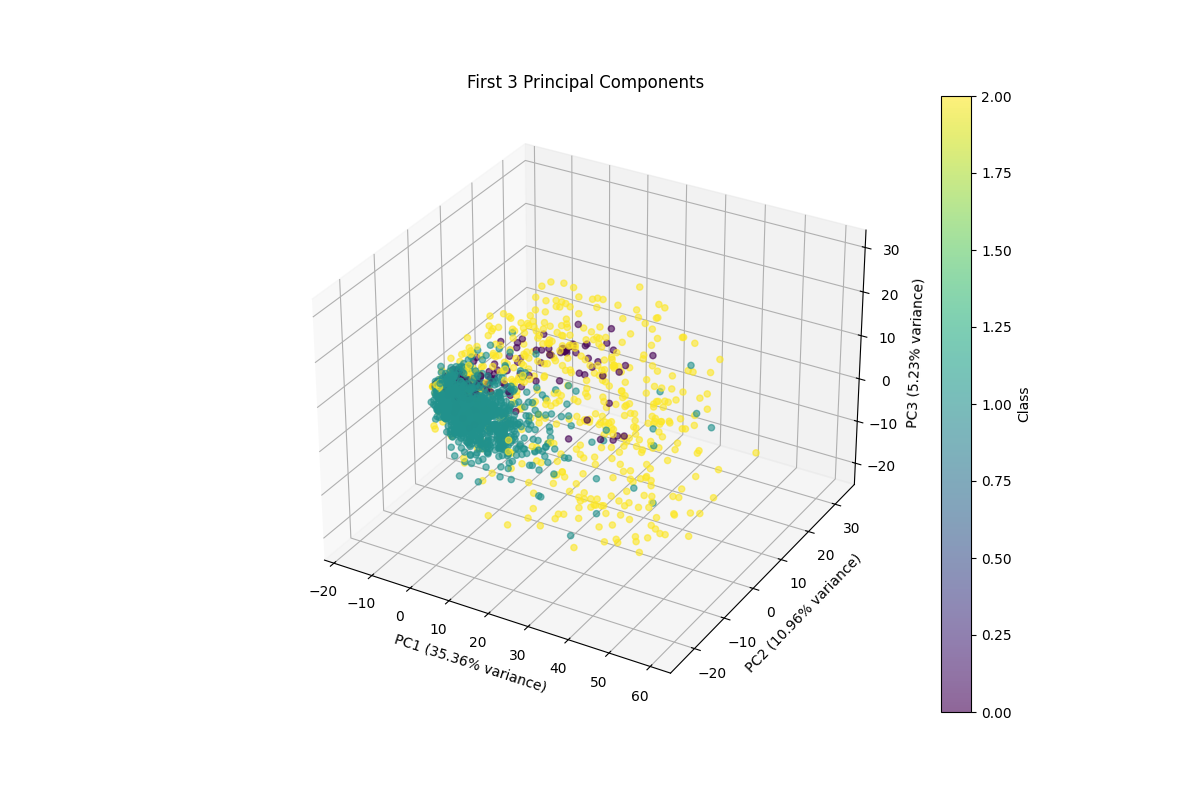
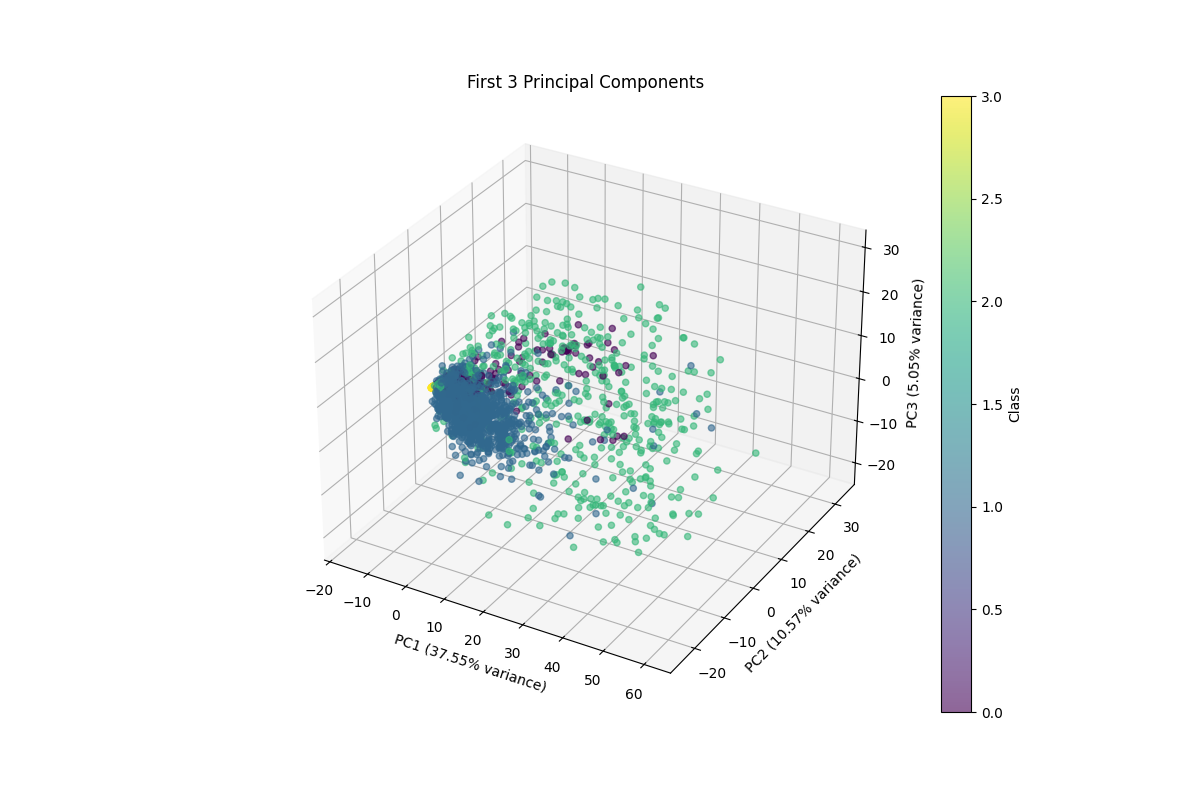
Accurate Simple

diff --git a/VisualizePCA.py b/VisualizePCA.py
@@ -51,17 +51,81 @@ plt.tight_layout()
 plt.savefig('pca_components_heatmap.png')
 plt.close()
 
-#Plotted first 3 components
+# Plotted first 3 components for 4 classes
 fig = plt.figure(figsize=(12, 8))
 ax = fig.add_subplot(111, projection='3d')
-scatter = ax.scatter(reduced_data_10d[:, 0], reduced_data_10d[:, 1], reduced_data_10d[:, 2],
-                    c=labels, cmap='viridis', alpha=0.6)
-plt.colorbar(scatter, label='Class')
+# Use a color map with 4 distinct colors
+colors = ['tab:blue', 'tab:orange', 'tab:green', 'tab:red']
+class_names = ['Whistle', 'Click', 'BP', 'Noise']
+for class_idx, class_name in enumerate(class_names):
+    mask = labels == class_idx
+    ax.scatter(reduced_data_10d[mask, 0], reduced_data_10d[mask, 1], reduced_data_10d[mask, 2],
+               c=colors[class_idx], label=class_name, alpha=0.6)
+plt.colorbar(ax.scatter([], [], [], c=[]), label='Class (see legend)')
 ax.set_xlabel(f'PC1 ({pca_10d.explained_variance_ratio_[0]:.2%} variance)')
 ax.set_ylabel(f'PC2 ({pca_10d.explained_variance_ratio_[1]:.2%} variance)')
 ax.set_zlabel(f'PC3 ({pca_10d.explained_variance_ratio_[2]:.2%} variance)')
-plt.title('First 3 Principal Components')
-plt.savefig('pca_3d_top3.png')
+plt.title('First 3 Principal Components (4 Classes)')
+ax.legend()
+plt.savefig('pca_3d_top3_4classes.png')
+plt.close()
+
+# 2x2 grid of 3D PCA plots: each class vs Noise, and all classes
+fig = plt.figure(figsize=(18, 14))
+
+class_names = ['Whistle', 'Click', 'BP', 'Noise']
+colors = ['tab:blue', 'tab:orange', 'tab:green', 'tab:red']
+
+# (1) Whistle vs Noise
+ax1 = fig.add_subplot(2, 2, 1, projection='3d')
+for class_idx, class_name in [(0, 'Whistle'), (3, 'Noise')]:
+    mask = labels == class_idx
+    ax1.scatter(reduced_data_10d[mask, 0], reduced_data_10d[mask, 1], reduced_data_10d[mask, 2],
+                c=colors[class_idx], label=class_name, alpha=0.6)
+ax1.set_title('Whistle vs Noise')
+ax1.set_xlabel('PC1')
+ax1.set_ylabel('PC2')
+ax1.set_zlabel('PC3')
+ax1.legend()
+
+# (2) Click vs Noise
+ax2 = fig.add_subplot(2, 2, 2, projection='3d')
+for class_idx, class_name in [(1, 'Click'), (3, 'Noise')]:
+    mask = labels == class_idx
+    ax2.scatter(reduced_data_10d[mask, 0], reduced_data_10d[mask, 1], reduced_data_10d[mask, 2],
+                c=colors[class_idx], label=class_name, alpha=0.6)
+ax2.set_title('Click vs Noise')
+ax2.set_xlabel('PC1')
+ax2.set_ylabel('PC2')
+ax2.set_zlabel('PC3')
+ax2.legend()
+
+# (3) BP vs Noise
+ax3 = fig.add_subplot(2, 2, 3, projection='3d')
+for class_idx, class_name in [(2, 'BP'), (3, 'Noise')]:
+    mask = labels == class_idx
+    ax3.scatter(reduced_data_10d[mask, 0], reduced_data_10d[mask, 1], reduced_data_10d[mask, 2],
+                c=colors[class_idx], label=class_name, alpha=0.6)
+ax3.set_title('BP vs Noise')
+ax3.set_xlabel('PC1')
+ax3.set_ylabel('PC2')
+ax3.set_zlabel('PC3')
+ax3.legend()
+
+# (4) All classes
+ax4 = fig.add_subplot(2, 2, 4, projection='3d')
+for class_idx, class_name in enumerate(class_names):
+    mask = labels == class_idx
+    ax4.scatter(reduced_data_10d[mask, 0], reduced_data_10d[mask, 1], reduced_data_10d[mask, 2],
+                c=colors[class_idx], label=class_name, alpha=0.6)
+ax4.set_title('All Classes')
+ax4.set_xlabel('PC1')
+ax4.set_ylabel('PC2')
+ax4.set_zlabel('PC3')
+ax4.legend()
+
+plt.tight_layout()
+plt.savefig('pca_3d_grid_vs_noise.png')
 plt.close()
 
 def visualize_hidden_states(close_p, states, n_components, title="Time Series with Hidden States"):
